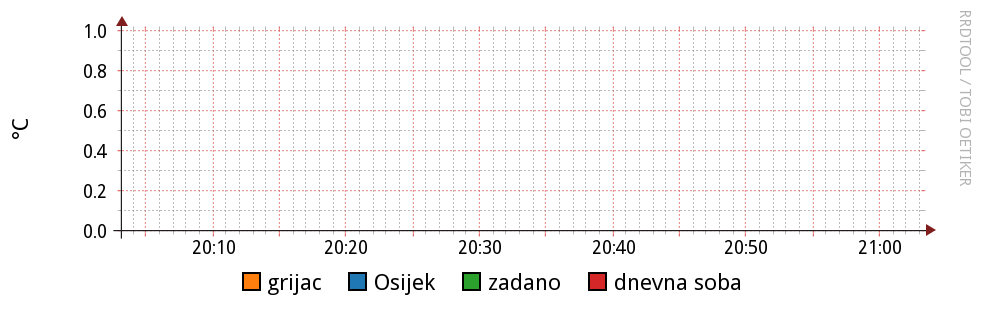
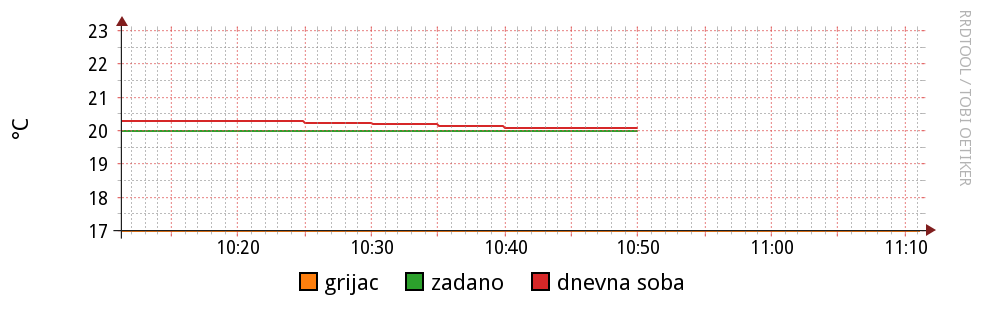
timetable updated (lower values); hourly graph 'zoomed in'

diff --git a/app/rrdb-tools.js b/app/rrdb-tools.js
@@ -245,15 +245,14 @@ var paintTempsAndState = function(cb) {
 
   var graphStrDefaults = '--font DEFAULT:0:"Droid Sans" ' +
     '--vertical-label "°C" --border 0 --zoom 2 --slope-mode ' +
+    '--lower-limit 17 --upper-limit 23 --rigid ' +
     '--color CANVAS#FFFFFF00 --color FRAME#000000FF --color BACK#FFFFFF00 ' +
     'TEXTALIGN:center ' +
     'DEF:mytemp_preset=' + config.app_dir + "/" + config.rrd_temps_name + ':temp_preset:AVERAGE ' +
     'DEF:mytemp_living=' + config.app_dir + "/" + config.rrd_temps_name + ':temp_living:AVERAGE ' +
-    'DEF:mytemp_osijek=' + config.app_dir + "/" + config.rrd_temps_name + ':temp_osijek:AVERAGE ' +
     'DEF:myheater_state=' + config.app_dir + "/" + config.rrd_state_name + ':heater_state:AVERAGE ' +
     'CDEF:myheater_state_rel=myheater_state,0.5,GT,mytemp_preset,0,IF ' +
     'AREA:myheater_state_rel#FE7F0E:"grijac" ' +
-    'LINE:mytemp_osijek#1F77B4:"Osijek" ' +
     'LINE:mytemp_preset#2CA02C:"zadano" ' +
     'LINE:mytemp_living#D62728:"dnevna soba"';
 
